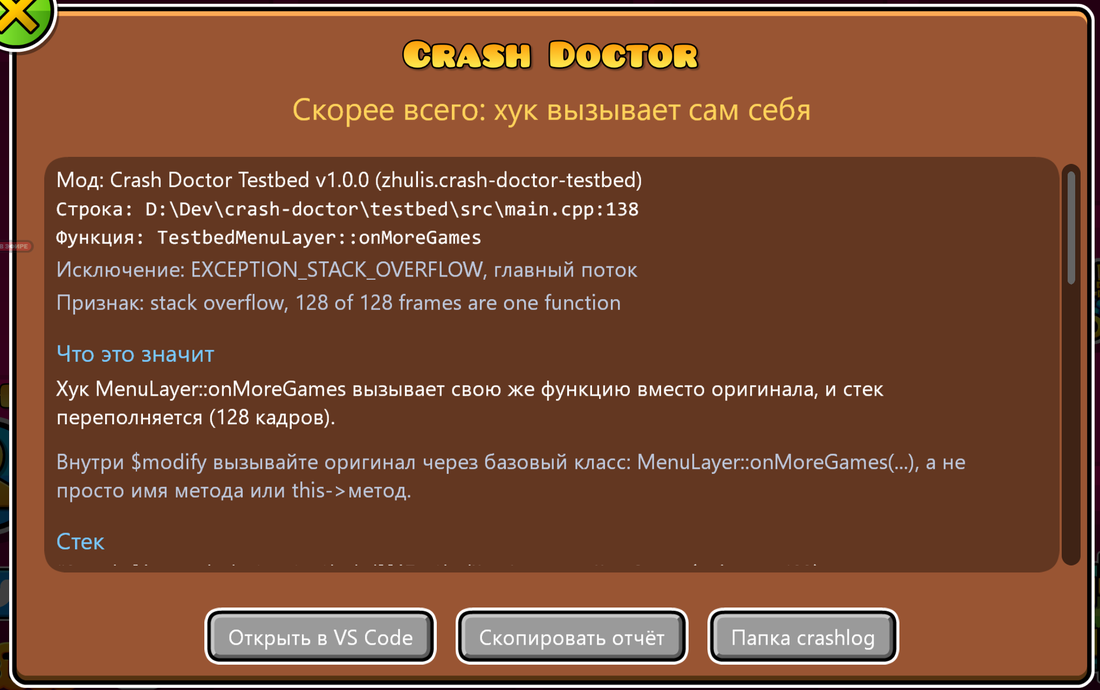
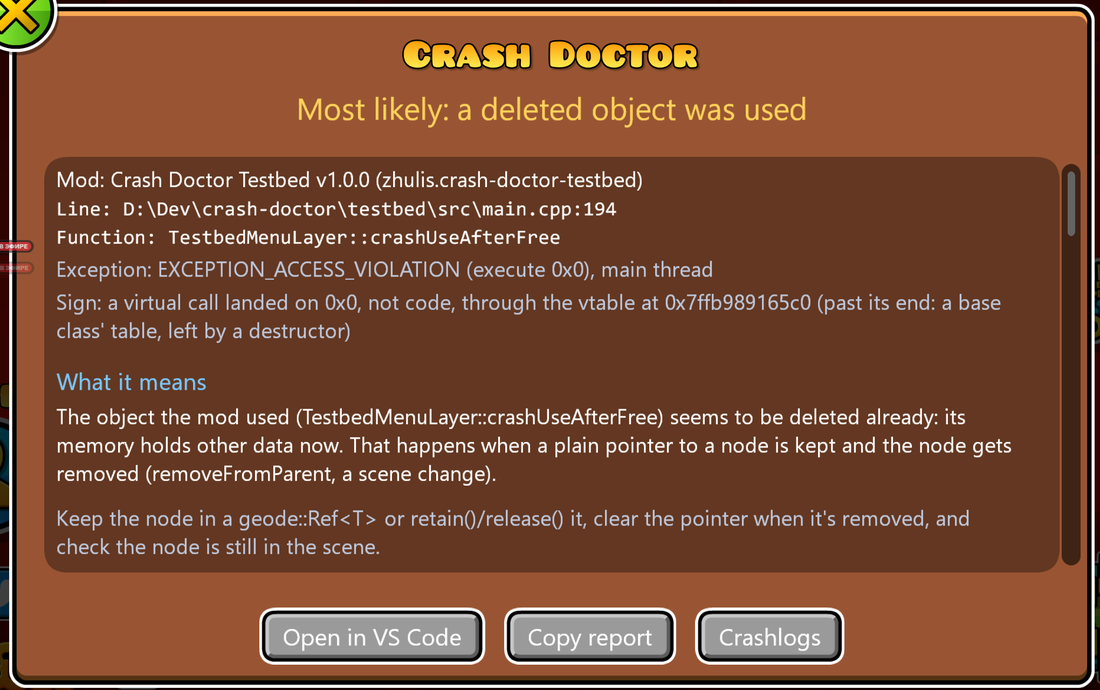
docs: README in Russian too, screenshots in English and Russian, about.md for the new features

diff --git a/README.ru.md b/README.ru.md
@@ -1,0 +1,57 @@
+# Crash Doctor
+
+[English](README.md)
+
+Мод для [Geode](https://geode-sdk.org) и Geometry Dash: после краша при следующем запуске поверх главного меню появляется отчёт. В нём сказано, **где** упало (мод, функция, файл и строка), **что, скорее всего, случилось** простыми словами, **как вы туда попали** (последние сцены, попапы, кнопки и клавиши) и последние строки лога. Только Windows.
+
+<img src="logo.png" width="128" alt="logo">
+
+![Отчёт после рекурсии в хуке](docs/report-ru.png)
+
+## Установка
+
+Скачайте `zhulis.crash-doctor.geode` из последнего [релиза](https://github.com/ZhulinskiiDanil/crash-doctor/releases) и положите в папку модов Geode (или **Install from file** на странице модов Geode). Или через [Zhulis Mods Manager](https://github.com/ZhulinskiiDanil/zhulis-mods-manager) с включённой настройкой **Include pre-releases**: Crash Doctor пока бета, его релизы помечены как pre-release.
+
+## Что он говорит
+
+Каждый диагноз — «скорее всего», с объяснением и советом. Он ставится только по надёжным признакам; иначе отчёт честно говорит, что диагноза нет, и показывает факты.
+
+| Диагноз | По каким признакам |
+| --- | --- |
+| Обращение через nullptr | Access violation по адресу ниже 64 КБ (Windows их никогда не выделяет), в стеке есть мод. Совет: проверять результат `getChildByID`, `typeinfo_cast`, `create()` |
+| Бесконечная рекурсия | Переполнение стека, и стек заполнен одной функцией мода |
+| Хук вызывает сам себя | То же, и эта функция — хук мода на этот метод (`this->onMoreGames(sender)` вместо `MenuLayer::onMoreGames(sender)`) |
+| Обращение к удалённому объекту | Виртуальный вызов ушёл не в код: указатель на vtable — не vtable (память объекта занята другими данными) или слот за концом таблицы базового класса, которую оставляет деструктор. Или паттерн освобождённой памяти. Совет: `Ref<>`, `retain()` |
+| UI из другого потока | Краш внутри cocos2d в потоке, который запустил мод. Совет: `queueInMainThread` |
+| Pure virtual call | `_purecall` из C runtime: метод вызван у объекта во время удаления |
+| Исключение C++ без обработки | Его тип и `what()` |
+| Деление на ноль | Целочисленное деление на ноль в коде мода |
+
+Ещё в отчёте: исключение, поток, **кусок исходника вокруг строки** (если файл есть на этом компьютере), стек (имена, файлы и строки из PDB модов: у мода, собранного на вашем компьютере, PDB лежит там, где его собрали), до 15 последних действий, **лог по модам** (кто что писал прямо перед крашем, с числом предупреждений и ошибок), последние строки лога, **недавние краши** (одинаковые считаются, а не повторяются) и версии.
+
+**Для игроков и для разработчиков.** Полный отчёт показывается сам, если PDB упавшего мода есть на этом компьютере — так бывает у его разработчика. Остальные видят короткий: какой мод, скорее всего, виноват, что это ошибка мода, а не их, что делать, и последние действия; полный отчёт — по кнопке **Подробнее**. Настройка *Report detail* может сделать отчёт всегда полным или всегда коротким.
+
+Кнопки:
+
+- **Открыть в VS Code** — открывает строку (`vscode://file/...`)
+- **Скопировать отчёт** — короткий текст для issue или Discord: диагноз, стек (рекурсия свёрнута), код, последние действия, версии GD, Geode и модов из стека. Папка пользователя в путях заменяется на `%USERPROFILE%`
+- **Папка crashlog** — папка crashlog Geode
+
+С [Improved Logger](https://github.com/ZhulinskiiDanil/improved-geode-logger) (необязательно) последние действия закреплены в его консоли, а перед отчётом о краше в логе ставится маркер.
+
+Для инструментов результат пишется в лог Geode одной строкой JSON: `crash-doctor-result {"diagnosis":"hook-recursion","culprit":"...","file":"...","line":138,...}`.
+
+## Обработчик Geode остаётся
+
+Окно краша Geode и его crashlog работают как раньше. Обработчик Crash Doctor стоит в цепочке перед обработчиком Geode: записывает своё и передаёт краш дальше. Pure virtual call без мода закрывал бы игру через `abort()` мимо обоих; Crash Doctor превращает его в исключение, и Geode пишет crashlog и для него.
+
+В момент краша ничего не выделяет память, не берёт блокировок, не пишет в лог и не трогает cocos: всё записывается в файл, отображённый в память при старте игры, который переживает падение процесса. Главный поток держит 128 КБ стека для обработчиков после переполнения стека. Символы, анализ и окно — при следующем запуске.
+
+## Сборка
+
+```sh
+geode build
+cmake -S tests -B build-tests && cmake --build build-tests && ctest --test-dir build-tests
+```
+
+`testbed/` — отдельный мод, который намеренно крашит игру, по одному виду за раз; `testbed/check.sh <вид>` проводит всю проверку: краш, перезапуск, строка результата, скриншот. Он никогда не публикуется. Как всё устроено — в [docs/ARCHITECTURE.md](docs/ARCHITECTURE.md).

diff --git a/README.md b/README.md
@@ -1,10 +1,12 @@
 # Crash Doctor
 
+[Русский](README.ru.md)
+
 A [Geode](https://geode-sdk.org) mod for Geometry Dash: after a crash, the next start shows a report over the main menu that says **where** it crashed (the mod, the function, the file and line), **what most likely happened** in plain words, **how you got there** (the last scenes, popups, buttons and keys) and the log's last lines. Windows only.
 
 <img src="logo.png" width="128" alt="logo">
 
-![The report after a hook that called itself](docs/report.png)
+![The report after a node was used once it was deleted](docs/report.png)
 
 ## Install
 
@@ -25,7 +27,11 @@ Each diagnosis is a "most likely", with what it means and what to do. It's given
 | Uncaught C++ exception | Its type and `what()` |
 | Division by zero | An integer division by zero in a mod's code |
 
-The report also has the exception, the thread, the stack (names, files and lines from the mods' PDBs: a mod built on your computer has one where it was built), up to 15 last actions, the log's last lines and the versions.
+The report also has the exception, the thread, **the source around the line** (when the file is on this computer), the stack (names, files and lines from the mods' PDBs: a mod built on your computer has one where it was built), up to 15 last actions, **the log by mod** (who logged what right before, warnings and errors counted), the log's last lines, **recent crashes** (the same crash counted, not listed again) and the versions.
+
+**For players and for developers.** The whole report shows by itself when the crashed mod's PDB is on this computer: that's how its developer has it. Everyone else gets a short one: which mod it most likely was, that it's the mod's bug and not theirs, what to do, and the last actions, with **Details** a button away. The *Report detail* setting can make it always one or the other.
+
+With [Improved Logger](https://github.com/ZhulinskiiDanil/improved-geode-logger) installed (optional), the last actions are pinned in its console as they happen, and a marker goes before the crash's report in the log.
 
 - **Open in VS Code** opens the line (`vscode://file/...`)
 - **Copy report** puts a short text on the clipboard for an issue or Discord: the diagnosis, the stack (a recursion folded), the last actions, GD, Geode and the versions of the mods on the stack. Your user folder in paths becomes `%USERPROFILE%`
@@ -48,6 +54,7 @@ At the moment of the crash nothing allocates, locks, logs or touches cocos: ever
 | Setting | Default | |
 | --- | --- | --- |
 | Show the report | on | Off: the result goes only to the log |
+| Report detail | Auto | Auto: the whole report when the crashed mod's PDB is here, a short one otherwise. Or always one of them |
 | Language | Auto | Russian on a Russian Windows, English otherwise |
 
 ## Building

diff --git a/about.md b/about.md
@@ -1,13 +1,18 @@
 # Crash Doctor
 
-When the game crashes, the next start shows **what happened** in plain words:
+When the game crashes, the next start shows **what happened** in plain words, in English or Russian:
 
-- **Where**: the mod, the function, and the file and line when the mod has its PDB
-- **Most likely**: a null pointer, an endless recursion, a deleted object used, UI from another thread, a pure
-  virtual call, an uncaught C++ exception, a division by zero. When the signs aren't clear, no guess
-- **How you got there**: the last scenes, popups, buttons and keys before the crash
-- The last lines of the log
+- **Which mod**, and for its developer the function, the file and line and the code around it (from the mod's PDB)
+- **Most likely**: a null pointer, an endless recursion or a hook calling itself, a deleted object used, UI from
+  another thread, a pure virtual call, an uncaught C++ exception, a division by zero. When the signs aren't clear,
+  no guess
+- **How you got there**: the last scenes, popups, buttons and keys before the crash (keys that type text aren't named)
+- **The log** right before it, by mod, and the crashes before it, counted
 
-**Copy report** puts a short text for an issue or Discord on the clipboard, **Open in VS Code** opens the line.
+Players get a short report: which mod it was and what to do. The whole one shows for the mod's developer (its PDB
+is on their computer), or with the *Report detail* setting.
+
+**Copy report** puts a short text for an issue or Discord on the clipboard, without your user name.
+**Open in VS Code** opens the line.
 
 Geode's own crash window and crashlog work exactly as before: Crash Doctor only adds its data and passes the crash on.
